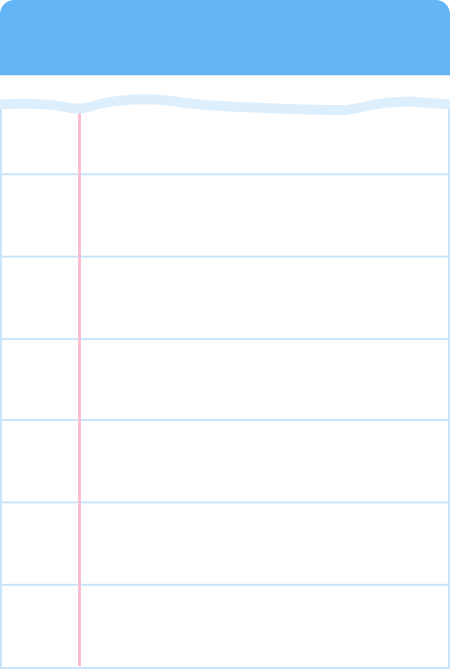
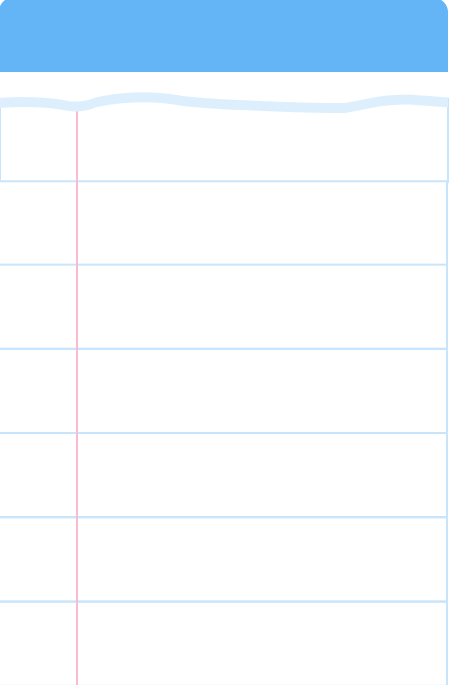
삭제 아이콘 추가 및 애니메니션 추가

Changed region(s): [[0.0, 0.0, 1.0, 1.0], [0.0, 0.0, 0.0312, 0.0299]]

diff --git a/src/TodoList.js b/src/TodoList.js
@@ -27,6 +27,7 @@ export default class TodoList extends React.Component {
       loading: false
     });
   }
+
   // 추가 버튼
   async handleSubmit(e) {
     e.preventDefault();
@@ -39,14 +40,10 @@ export default class TodoList extends React.Component {
       body,
       complete: false
     });
-    // 서버에서 할 일 목록 다시 받아오기
     const res = await api.get("/todos");
     // 할 일 목록을 화면에 그려주기
     const todos = res.data;
-        if(todos.length > 7) {
-          alert('7개이상 목록을 저장할수 없습니다.')
-          return
-        }
+    // 서버에서 할 일 목록 다시 받아오기
     this.setState({
       todos: todos,
       loading: false
@@ -57,7 +54,7 @@ export default class TodoList extends React.Component {
     this.setState({
       loading: true
     });
-    // 사바에 할 일 삭제
+    // 서버에 할 일 삭제
     await api.delete("/todos/" + id);
     // 서버에서 할 일 목록 다시 받아오기
     const res = await api.get("/todos");
@@ -72,33 +69,45 @@ export default class TodoList extends React.Component {
   async handleLogout(e) {
     e.preventDefault();
     this.setState({
-      loading:true
-    })
+      loading: true
+    });
     localStorage.removeItem("token");
     this.props.onLogout();
   }
 
   render() {
+    const { todos } = this.state;
     const divClass = classNames({
       loading: this.state.loading,
       TodoList
     });
-
-    return <div className={divClass}>
+    // if (todos.length > 7) {
+    //   alert('7개이상 목록을 저장할수 없습니다.')
+    //   return
+    // }
+    return (
+      // <div className={divClass}>
+      <div className="TodoList bounceInDown">
         <h1>{moment(new Date()).format("YYYY-MM-DD")}</h1>
-        <button className="logout" onClick={e => this.handleLogout(e)}>나가기</button>
+        <button className="logout pulse" onClick={e => this.handleLogout(e)}>
+          나가기
+        </button>
         <form onSubmit={e => this.handleSubmit(e)}>
           <input type="text" name="body" />
           <button>추가</button>
         </form>
         <ul>
-          {this.state.todos.map(todo => <li key={todo.id}>
-              {todo.body}
-              <button onClick={e => this.handleDelete(e, todo.id)}>
-                삭제
-              </button>
-            </li>)}
+          {this.state.todos.map(todo => (
+            <li key={todo.id}>
+              <span>{todo.body}</span>
+              <i
+                className="far fa-trash-alt"
+                onClick={e => this.handleDelete(e, todo.id)}
+              />
+            </li>
+          ))}
         </ul>
-      </div>;
+      </div>
+    );
   }
 }

diff --git a/src/RegisterForm.js b/src/RegisterForm.js
@@ -1,0 +1,62 @@
+import React, { Component } from "react";
+import api from "./api";
+export default class RegisterForm extends Component {
+  constructor(props) {
+    super(props);
+
+    this.state = {
+      // 현재 입력 필드에 입력된 사용자 이름/암호
+      username: "",
+      password: ""
+    };
+  }
+
+  async handleSubmit(e) {
+    e.preventDefault();
+    const { username, password } = this.state;
+    // 사용자 이름 중복체크
+    const { data: users } = await api.get("/users", {
+      params: {
+        username
+      }
+    });
+    if (users.length > 0) {
+      alert("이미 같은 이름이 사용 중입니다.");
+      return;
+    }
+    const res = await api.post("/users/register", {
+      username,
+      password
+    });
+    localStorage.setItem("token", res.data.token);
+    this.props.onRegister();
+  }
+
+  handleFieldChange(e, name) {
+    // name 변수에 저장되어 있는 문자열을
+    // 그대로 속성 이름으로 사용하기
+    this.setState({ [name]: e.target.value });
+  }
+
+  // value에 저장된 값을 onChange로 가져와 handleFieldChange 처리 ->
+  render() {
+    const { username, password } = this.state;
+    return (
+      <form onSubmit={e => this.handleSubmit(e)}>
+        <h1>회원가입</h1>
+        <input
+          type="text"
+          name="username"
+          value={username}
+          onChange={e => this.handleFieldChange(e, "username")}
+        />
+        <input
+          type="text"
+          name="password"
+          value={password}
+          onChange={e => this.handleFieldChange(e, "password")}
+        />
+      </form>
+    );
+  }
+}

diff --git a/src/styles.scss b/src/styles.scss
@@ -205,34 +205,63 @@ body {
 
 .TodoList {
   width: 450px;
-  height: 700px;
+  height: 750px;
   background: url(image/todo-bg.png) no-repeat 0 0;
   position: relative;
+  animation-duration: 3s;
+  animation-iteration-count: 1;
   h1 {
     font-size: 2em;
     font-weight: 700;
     color: #fff;
     position: absolute;
-    padding: 2rem 0 2rem 3em;
+    padding: 2rem 0 2rem 2em;
   }
   .logout {
     position: absolute;
     top: 1.7rem;
     right: 1.5rem;
     font-size: 1.3em;
-    padding: .6em 1em;
-    border-radius:40px;
+    padding: 0.6em 1em;
+    border-radius: 40px;
     background: #1c88e3;
     border: 0;
     color: #fff;
     font-weight: 500;
+    cursor: pointer;
+    &:hover{
+      animation-duration: 1s;
+        animation-iteration-count: infinite;
+    }
   }
-  form,
+  form {
+    position: absolute;
+    bottom: 0;
+  }
   ul {
     position: absolute;
-    top: 300px;
+    top: 93px;
+  }
+  li {
+    padding: 0 1.5em 0 7em;
+    line-height: 85px;
+    width: 450px;
+    display: flex;
+    justify-content: space-between;
+    span {
+      color: #1f88e4;
+      font-size: 2rem;
+      font-weight: 500;
+    }
+    i {
+      vertical-align: middle;
+      color: #222;
+      font-size: 20px;
+      margin: 20px 0;
+      padding: 10px;
+      cursor: pointer;
+    }
   }
 }
-
 button {
 }

diff --git a/src/index.js b/src/index.js
@@ -2,6 +2,7 @@ import React from "react";
 import ReactDOM from "react-dom";
 import LoginForm from "./LoginForm";
 import TodoList from "./TodoList";
+import RegisterForm from "./RegisterForm";
 
 import "./styles.scss";
 
@@ -9,6 +10,9 @@ class App extends React.Component {
   // 상태 설계
   constructor(poprs) {
     super(poprs);
+    // page === 'login' -> 로그인
+    // page === 'register' -> 회원가입
+    // page === 'todo-list' -> todolist 목록
     this.state = {page: localStorage.getItem("token") ? "todo-list" : "login"};
   }
 
@@ -24,6 +28,12 @@ class App extends React.Component {
     })
   }
 
+  handleRegisterPage(){
+    this.setState({
+      page:"register"
+    })
+  }
+
   render() {
     return (
       <div className="App">
@@ -31,7 +41,9 @@ class App extends React.Component {
         <LoginForm onLogin={()=>this.handleLogin()} />
         ) : this.state.page === "todo-list" ? (
           <TodoList onLogout={()=>this.handleLogout()} />
-        ): null}
+        ): this.setState.page === "register" ? (
+          <RegisterForm onRegister={()=>this.handleRegisterPage()}/>
+        ) : null}
       </div>
     );
   }

diff --git a/public/index.html b/public/index.html
@@ -10,7 +10,10 @@
       homescreen on Android. See https://developers.google.com/web/fundamentals/engage-and-retain/web-app-manifest/
     -->
 	<link rel="manifest" href="%PUBLIC_URL%/manifest.json">
-	<link rel="shortcut icon" href="%PUBLIC_URL%/favicon.ico">
+  <link rel="shortcut icon" href="%PUBLIC_URL%/favicon.ico">
+  <link rel="stylesheet" href="https://use.fontawesome.com/releases/v5.5.0/css/all.css" integrity="sha384-B4dIYHKNBt8Bc12p+WXckhzcICo0wtJAoU8YZTY5qE0Id1GSseTk6S+L3BlXeVIU"
+    crossorigin="anonymous">
+    <link rel="stylesheet" href="https://cdnjs.cloudflare.com/ajax/libs/animate.css/3.7.0/animate.min.css">
 	<!--
       Notice the use of %PUBLIC_URL% in the tags above.
       It will be replaced with the URL of the `public` folder during the build.

diff --git a/src/LoginForm.js b/src/LoginForm.js
@@ -25,14 +25,16 @@ export default class LoginForm extends Component {
     this.props.onLogin();
   }
   render() {
+    const {onRegister} = this.props;
     return (
       <section className="login">
         <form onSubmit={e => this.handleSubmit(e)} className="login-form">
           <h2 className="tit">Login</h2>
           <input type="text" name="username" />
           <input type="password" name="password" />
-          <button>전송</button>
+          <button>로그인</button>
         </form>
+        <button onClick={() => onRegister()}>회원가입</button>
       </section>
     );
   }
